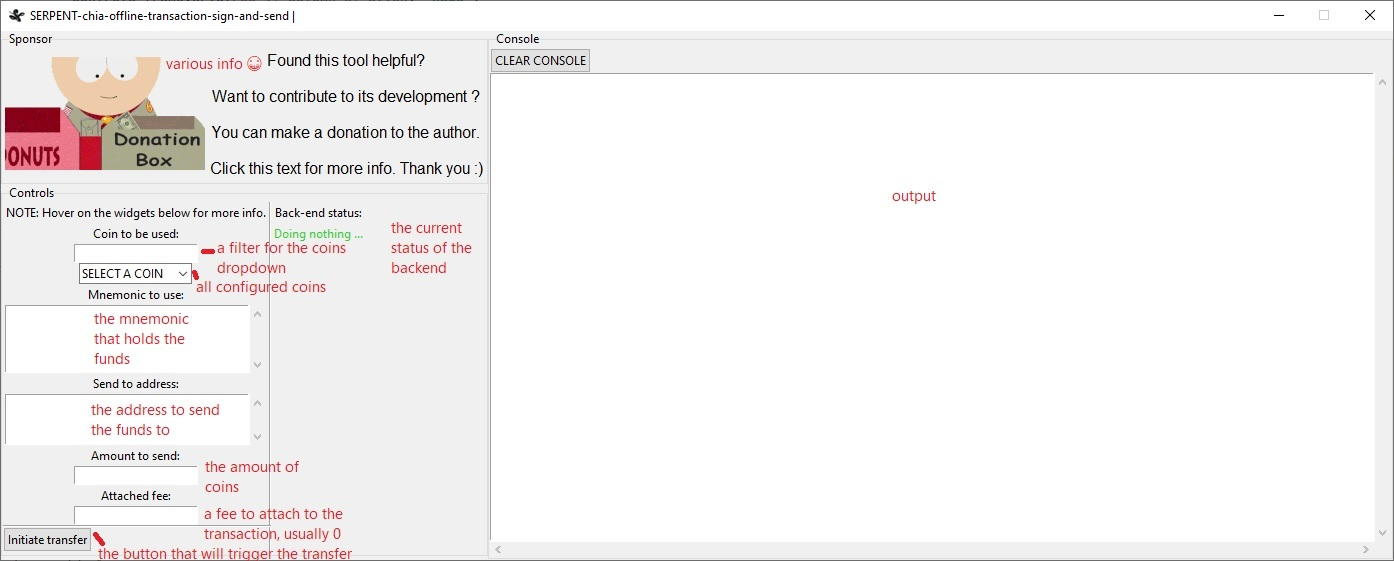
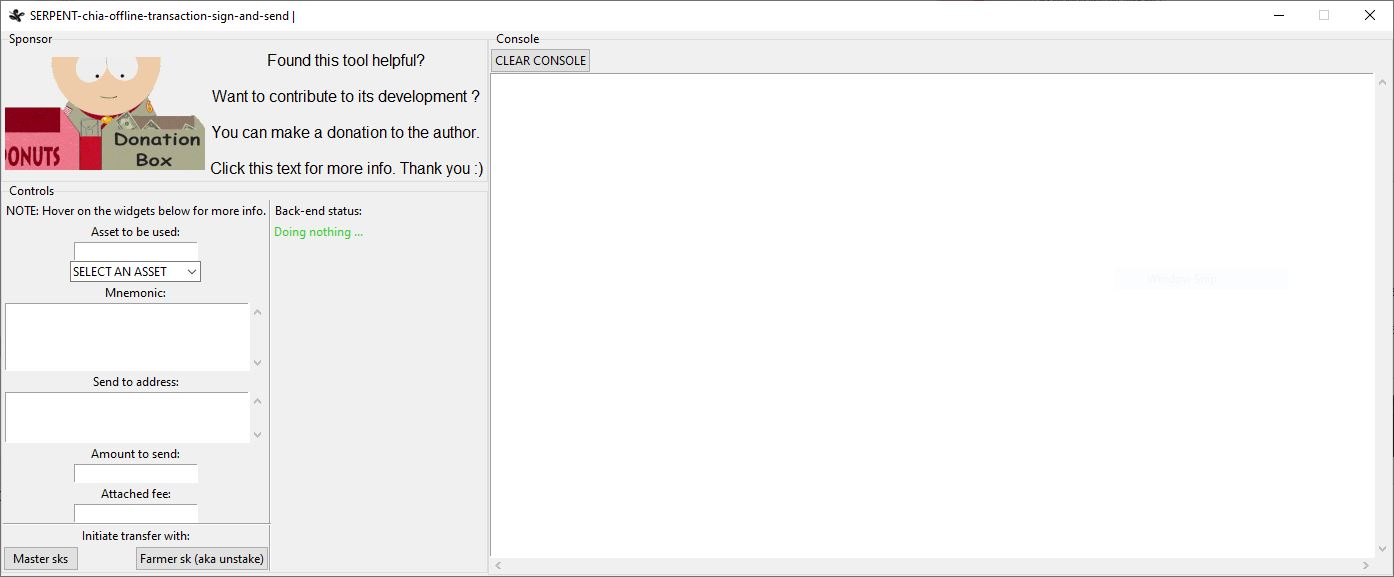
ReadMe updates

diff --git a/README.md b/README.md
@@ -7,17 +7,13 @@ Tool that can send funds out of a wallet through the full node RPC, by using a m
 
 # High level overview
 - The script's' functionalities:
-    - it can generate a parent public key from a mnemonic
-    - it can generate quantum resistent child public keys
+    - it can derive keys from the master_sk to send funds
+    - it can send funds from the farmer_sk (aka unstaking SIT and GL coins)  
     - it can generate a spend bundle with help from a running full node via its RPC interface
     - it can sign a spend bundle tx using the mnemonic
     - it can push the signed tx to the full node via its RPC interface
     
 **The takeaway here is that the tool can send transactions from a wallet to another wallet without having to sync the wallet, just by using the full node.**
-
-- !!! WARNING !!!
-   - Because the tool needs your mnemonic to work, be REALLY CAREFUL not to accidentally share the mnemonic
-   - The backend is posted here on github and I tried not to obfuscate anything so PLEASE feel free to review the code before you run it.
 
 # Feedback/ Contribution
 - Please post any issues you encountered or any feature requests using the issues tab.
@@ -33,7 +29,9 @@ NOTE#1: Using it as a sub-module may get you to fall into a rabbit hole. For tha
 NOTE#2: Long story short you have 3 ways to use SERPENT in your scripts:
 
 M#1 using the SERPENT class directly
+
 M#2 using _00_CLI.py to direct your queries (recommended)
+
 M#3 using the compiled CLI exe (more I/O overhead then M#2)
 
 If you want fast support (faster than with github issues that is), join our Discord server: https://discord.gg/yPdCmHSgMe
